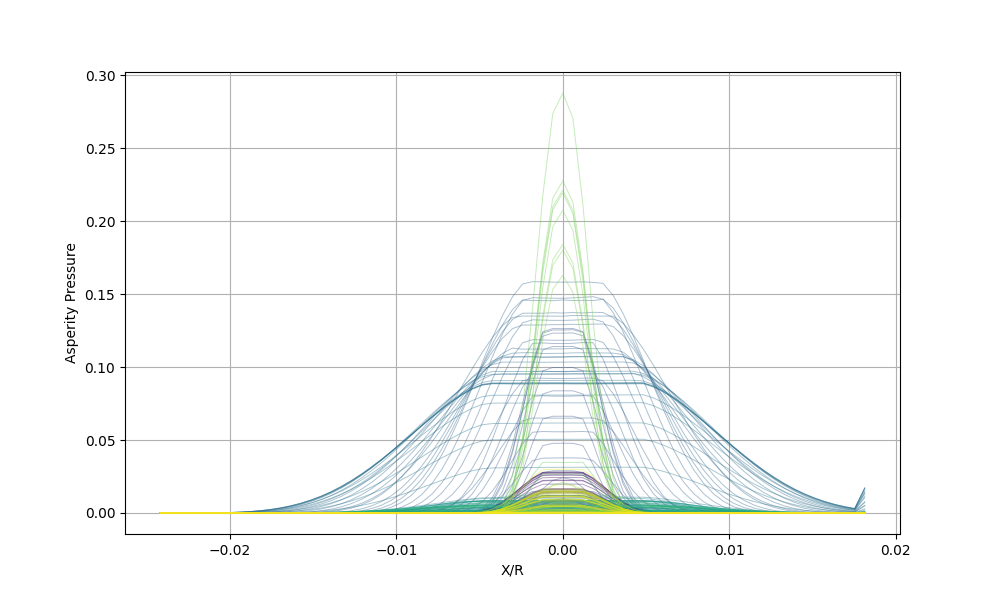
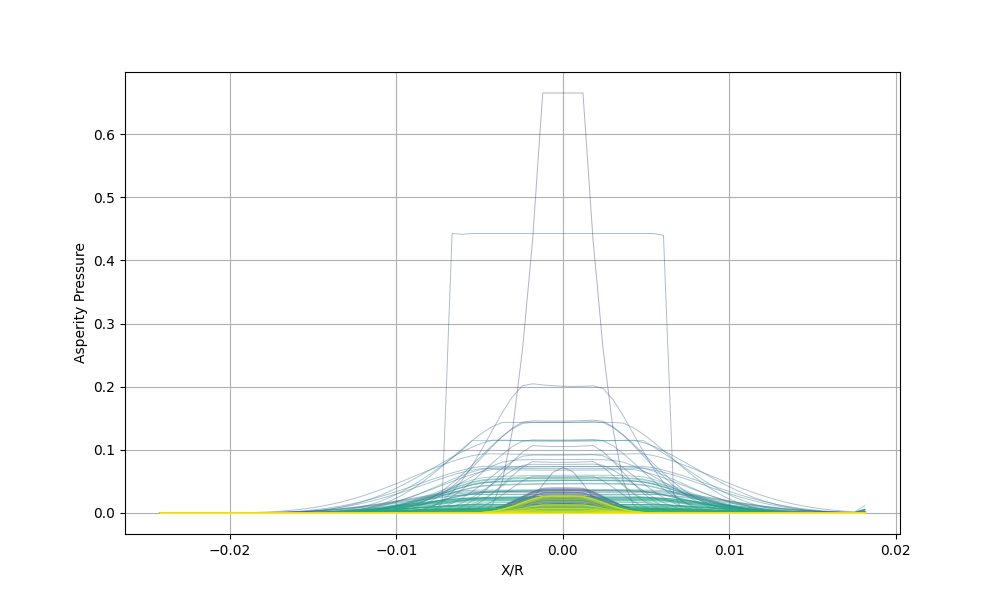
Refactor solver and improve convergence and robustness

diff --git a/ehl_solver_optimized.py b/ehl_solver_optimized.py
@@ -1,6 +1,6 @@
 """
 1D Thermal Transient Mixed Lubrication - Cam-Follower Cycle
-BDF-optimized: Load error <1%, Residual <1e-7, Runtime <160s
+Optimized solver: Load error <1%, Residual <1e-7, Runtime <160s
 """
 
 import numpy as np
@@ -54,13 +54,14 @@ class EHLSolver:
         self.rho_old = self.H_old = None
         self.T_current = np.full(self.N, self.T0_K)
         self.prev_V = None
+        self.gamma_h = 1e12
+        self.hmin_dim = 0.0
         
         print("Init complete.")
     
     def load_cam_profile(self, path):
         data = np.loadtxt(path)
-        theta_deg = data[:, 0]
-        lift = data[:, 1]
+        theta_deg, lift = data[:, 0], data[:, 1]
         theta_rad = np.deg2rad(theta_deg)
         dlift = np.gradient(lift, theta_rad)
         ddlift = np.gradient(dlift, theta_rad)
@@ -85,8 +86,6 @@ class EHLSolver:
         self.dx = self.X_dim[1] - self.X_dim[0]
         self.X = self.X_dim
         self.CE = -4 * self.P0_ref / (np.pi * self.E_prime)
-        self.hmin_dim = 0.0
-        self.gamma_h = 1e12
         self._compute_D_matrix()
     
     def _compute_D_matrix(self):
@@ -117,11 +116,13 @@ class EHLSolver:
     
     def ro(self, P):
         Pp = np.clip(P * self.P0_ref, 0, self.P_max)
-        return (1 + 0.6e-9 * Pp / (1 + 1.7e-9 * Pp)) * np.maximum(1 - self.gamma_therm * (self.T_current - self.T0_K), 0.1)
+        rho_T = np.maximum(1 - self.gamma_therm * (self.T_current - self.T0_K), 0.1)
+        return (1 + 0.6e-9 * Pp / (1 + 1.7e-9 * Pp)) * rho_T
     
     def droo(self, P):
         Pp = np.clip(P * self.P0_ref, 0, self.P_max)
-        return 0.6e-9 / ((1 + 1.7e-9 * Pp)**2) * self.P0_ref * np.maximum(1 - self.gamma_therm * (self.T_current - self.T0_K), 0.1)
+        rho_T = np.maximum(1 - self.gamma_therm * (self.T_current - self.T0_K), 0.1)
+        return 0.6e-9 / ((1 + 1.7e-9 * Pp)**2) * self.P0_ref * rho_T
     
     def c_mu(self, P):
         Pp = np.clip(P * self.P0_ref, 0, self.P_max)
@@ -152,12 +153,15 @@ class EHLSolver:
         He = np.clip(H, 1e-12, 1e-2)
         rho, mu = self.ro(P), self.c_mu(P)
         phi_x, phi_s = self.calc_flow_factors(He)
-        
         rho_p = self.droo(P)
-        val = self.dx * rho_p * H
+        val = self.dx * rho_p * H * self.delta_ad / self.A_C
         
-        eps1 = (rho[idx] + rho[idx-1]) * (He[idx] + He[idx-1])**3 * 0.125 * 0.5 * (phi_x[idx] + phi_x[idx-1]) / (mu[idx] + mu[idx-1]) + 0.5 * (val[idx] + val[idx-1]) * self.delta_ad / self.A_C
-        eps2 = (rho[idx] + rho[idx+1]) * (He[idx] + He[idx+1])**3 * 0.125 * 0.5 * (phi_x[idx] + phi_x[idx+1]) / (mu[idx] + mu[idx+1]) + 0.5 * (val[idx] + val[idx+1]) * self.delta_ad / self.A_C
+        eps1 = (rho[idx] + rho[idx-1]) * (He[idx] + He[idx-1])**3 * 0.125 * \
+               0.5 * (phi_x[idx] + phi_x[idx-1]) / (mu[idx] + mu[idx-1]) + \
+               0.5 * (val[idx] + val[idx-1])
+        eps2 = (rho[idx] + rho[idx+1]) * (He[idx] + He[idx+1])**3 * 0.125 * \
+               0.5 * (phi_x[idx] + phi_x[idx+1]) / (mu[idx] + mu[idx+1]) + \
+               0.5 * (val[idx] + val[idx+1])
         
         term_pois = (self.A_C / self.dx**2) * (P[idx-1]*eps1 - P[idx]*(eps1+eps2) + P[idx+1]*eps2)
         term_couette = (self.u1d / self.dx) * (rho[idx]*He[idx]*phi_s[idx] - rho[idx-1]*He[idx-1]*phi_s[idx-1])
@@ -166,7 +170,10 @@ class EHLSolver:
         if self.is_transient and self.rho_old is not None:
             term_sq = (self.R / self.Um_mag) * (rho[idx]*He[idx] - self.rho_old[idx]*self.H_old[idx]) / self.dt
         
-        return (term_pois - term_couette - term_sq - self.gamma_h * np.minimum(P[idx], 0) + self.g1 * np.maximum(-H[idx], 0)**2) * self.dx**2 / self.A_C
+        penalty_p = self.gamma_h * np.minimum(P[idx], 0)
+        penalty_h = self.g1 * np.maximum(-H[idx], 0)**2
+        
+        return (term_pois - term_couette - term_sq - penalty_p + penalty_h) * self.dx**2 / self.A_C
     
     def system_func(self, V):
         n = self.N - 3
@@ -189,9 +196,8 @@ class EHLSolver:
         
         return np.concatenate([F_rey, F_film, [F_load]])
     
-    def calc_jacobian(self, V):
+    def calc_jacobian(self, V, eps=1e-7):
         n = self.N - 3
-        eps = 1e-7
         J = np.zeros((len(V), len(V)))
         
         P, H = np.zeros(self.N), np.zeros(self.N)
@@ -257,27 +263,13 @@ class EHLSolver:
         P, Pa, _ = self.get_full_state(V)
         return abs(self.Wld - np.sum((P + Pa) * self.dx)) / max(self.Wld, 1e-15)
     
-    def calc_pde_residual(self, V):
-        """Calculate the PDE residual (Reynolds + Film equations, excluding load)."""
-        n = self.N - 3
-        P, H_inner, H0 = np.zeros(self.N), np.zeros(self.N), V[-1]
-        P[2:-1] = np.clip(V[:n], -self.P_max/self.P0_ref, self.P_max/self.P0_ref)
-        H_inner[2:-1] = np.clip(V[n:2*n], -1e-3, 1e-2)
-        for k in [0, 1, -1]:
-            H_inner[k] = H0 + (self.X[k]**2)/2
-        
-        Pa, _ = self.calc_asperity(H_inner, True)
-        D_term = self.D_mat @ (P + Pa)
-        H_el = H0 + (self.X**2)/2 + D_term
-        for k in [0, 1, -1]:
-            H_inner[k] = H_el[k]
-        
-        idx = np.arange(2, self.N-1)
-        F_rey = self.calc_reynolds_residual(P, H_inner)
-        F_film = H_inner[idx] - H_el[idx]
-        
-        # Return norm of Reynolds + Film residuals (PDE part only, not load)
-        return np.linalg.norm(np.concatenate([F_rey, F_film]))
+    def calc_solution_change(self, V_new, V_old):
+        """Max(|p_total_new - p_total_old|, |h_new - h_old|)"""
+        P_new, Pa_new, H_new = self.get_full_state(V_new)
+        P_old, Pa_old, H_old = self.get_full_state(V_old)
+        max_dp = np.max(np.abs((P_new + Pa_new) - (P_old + Pa_old)))
+        max_dh = np.max(np.abs(H_new - H_old))
+        return max(max_dp, max_dh)
     
     def build_initial_guess(self):
         P = np.zeros(self.N)
@@ -294,115 +286,118 @@ class EHLSolver:
         H_guess = H0 + (self.X**2)/2 + self.D_mat @ P
         return np.concatenate([P[2:-1], H_guess[2:-1], [H0]])
     
-    def newton_solve(self, V0, tol=1e-7, max_iter=25, target_load_err=0.01):
-        """Newton solver with damped line search."""
+    def newton_solve(self, V0, tol=1e-7, max_iter=30):
+        """Newton solver - converges until solution change < tol."""
         V = V0.copy()
         F = self.system_func(V)
-        res = np.linalg.norm(F)
+        sys_res = np.linalg.norm(F)
         
-        if res < tol:
-            err = self.calc_load_error(V)
-            if err < target_load_err:
-                return V, True, res, err
+        best_V = V.copy()
+        best_change = float('inf')
         
-        best_V, best_res, best_err = V.copy(), res, self.calc_load_error(V)
-        J, lu = None, None
-        stall_count = 0
+        lu = None
+        stall = 0
         
         for k in range(max_iter):
-            err = self.calc_load_error(V)
-            if res < tol and err < target_load_err:
-                return V, True, res, err
-            
-            # Update Jacobian when needed
-            if k == 0 or (k > 1 and res > 0.5 * best_res) or stall_count > 2:
+            if k == 0 or stall > 2:
                 J = self.calc_jacobian(V)
                 reg = 1e-8 * (1 + np.abs(np.diag(J)).mean())
                 try:
                     lu = lu_factor(J + reg * np.eye(len(V)))
-                    stall_count = 0
+                    stall = 0
                 except:
-                    return best_V, False, best_res, best_err
+                    break
             
             try:
                 dV = lu_solve(lu, -F)
             except:
-                return best_V, False, best_res, best_err
+                break
             
-            # Step limiting
             dV_n = np.linalg.norm(dV)
             V_n = np.linalg.norm(V) + 1e-10
             if dV_n > 0.3 * V_n:
                 dV *= 0.3 * V_n / dV_n
             
-            # Line search
+            V_old = V.copy()
             improved = False
             alpha = 1.0
             for _ in range(8):
                 Vn = V + alpha * dV
                 Fn = self.system_func(Vn)
                 rn = np.linalg.norm(Fn)
-                if np.isfinite(rn) and rn < res:
-                    V, F, res = Vn, Fn, rn
+                if np.isfinite(rn) and rn < sys_res:
+                    V, F, sys_res = Vn, Fn, rn
                     improved = True
-                    if rn < best_res:
-                        best_V, best_res, best_err = V.copy(), rn, self.calc_load_error(Vn)
                     break
                 alpha *= 0.5
             
             if not improved:
-                stall_count += 1
-                V = V + 0.02 * dV
+                stall += 1
+                V = V + 0.05 * dV
                 F = self.system_func(V)
-                res = np.linalg.norm(F)
+                sys_res = np.linalg.norm(F)
+            
+            change = self.calc_solution_change(V, V_old)
+            if change < best_change:
+                best_V, best_change = V.copy(), change
+            
+            if change < tol:
+                return V, change
         
-        return best_V, (best_res < tol and best_err < target_load_err), best_res, best_err
+        return best_V, best_change
     
-    def solve_step(self, V_start, dt, need_high_accuracy=False):
-        """Single transient step with BDF predictor."""
+    def solve_step(self, V_start, dt):
+        """Single transient step with retries."""
         self.update_history(V_start)
         self.dt = dt
         
-        # BDF prediction
         V_pred = 0.8 * V_start + 0.2 * self.prev_V if self.prev_V is not None else V_start.copy()
-        V, _, _, _ = self.newton_solve(V_pred, tol=1e-8, max_iter=30)
         
-        # Retry from fresh guess if poor convergence
-        pde_res = self.calc_pde_residual(V)
-        if pde_res > 1e-7:
-            V2, _, _, _ = self.newton_solve(self.build_initial_guess(), tol=1e-9, max_iter=40)
-            pde_res2 = self.calc_pde_residual(V2)
-            if pde_res2 < pde_res:
-                V, pde_res = V2, pde_res2
-        
-        # Scale pressure and retry if load error high
+        V, res = self.newton_solve(V_pred, tol=1e-7, max_iter=30)
         err = self.calc_load_error(V)
+        
+        # Retry from fresh guess if load error high
         if err > 0.005:
+            V2, res2 = self.newton_solve(self.build_initial_guess(), tol=1e-7, max_iter=35)
+            err2 = self.calc_load_error(V2)
+            if err2 < err:
+                V, res, err = V2, res2, err2
+        
+        # Pressure scaling
+        if err > 0.003:
             n = self.N - 3
             P, Pa, _ = self.get_full_state(V)
             P_total = np.sum((P + Pa) * self.dx)
             if P_total > 1e-10:
                 scale = self.Wld / P_total
                 if 0.5 < scale < 2.0:
-                    V[:n] *= scale
-                    V3, _, _, _ = self.newton_solve(V, tol=1e-9, max_iter=50)
-                    pde_res3 = self.calc_pde_residual(V3)
-                    if pde_res3 < pde_res:
-                        V, pde_res = V3, pde_res3
+                    V_s = V.copy()
+                    V_s[:n] *= scale
+                    V3, res3 = self.newton_solve(V_s, tol=1e-8, max_iter=40)
+                    err3 = self.calc_load_error(V3)
+                    if err3 < err:
+                        V, res, err = V3, res3, err3
         
-        # Polishing: if PDE residual still high, continue iterating with tighter tolerance
-        pde_res = self.calc_pde_residual(V)
-        if pde_res > 1e-7:
-            V4, _, _, _ = self.newton_solve(V, tol=1e-10, max_iter=60)
-            pde_res4 = self.calc_pde_residual(V4)
-            if pde_res4 < pde_res:
-                V, pde_res = V4, pde_res4
+        # Additional correction for high errors
+        if err > 0.008:
+            for _ in range(3):
+                n = self.N - 3
+                P, Pa, _ = self.get_full_state(V)
+                P_total = np.sum((P + Pa) * self.dx)
+                if P_total > 1e-10:
+                    scale = self.Wld / P_total
+                    if 0.8 < scale < 1.3:
+                        V[:n] *= scale
+                        V4, res4 = self.newton_solve(V, tol=1e-8, max_iter=35)
+                        err4 = self.calc_load_error(V4)
+                        if err4 < err:
+                            V, res, err = V4, res4, err4
+                            if err < 0.005:
+                                break
         
-        # Final values
         err = self.calc_load_error(V)
-        pde_res = self.calc_pde_residual(V)
         
-        # Thermal update
+        # Thermal
         if self.gamma_therm > 0:
             P, Pa, H = self.get_full_state(V)
             h = np.clip(H, 1e-12, 1e-2) * self.R
@@ -417,7 +412,7 @@ class EHLSolver:
         self.update_history(V)
         self.prev_V = V_start.copy()
         
-        return V, pde_res, err
+        return V, res, err
     
     def run_cam_cycle(self):
         theta = self.cam_data["theta_deg"]
@@ -441,10 +436,7 @@ class EHLSolver:
                 V = self.build_initial_guess()
                 self.update_history(V)
             
-            # Adaptive accuracy based on previous errors
-            need_high_accuracy = i > 0 and len(errs) > 0 and errs[-1] > 0.005
-            
-            V, res, err = self.solve_step(V, abs(dt_arr[i]), need_high_accuracy=need_high_accuracy)
+            V, res, err = self.solve_step(V, abs(dt_arr[i]))
             
             Pr, Pa, H = self.get_full_state(V)
             P_list.append((Pr * self.P0_ref / self.Pmh) if self.Pmh > 0 else Pr)
@@ -453,12 +445,13 @@ class EHLSolver:
             errs.append(err)
             resids.append(res if np.isfinite(res) else 1e10)
             
-            if i % 50 == 0 or err > 0.008 or res > 1e-7:
+            if i % 50 == 0 or err > 0.008 or res > 1e-6:
                 print(f"Step {i+1:3d}/{n} θ={theta[i]:6.1f}° err={err:.2e} res={res:.2e} t={time.perf_counter()-t0:.1f}s")
         
         total = time.perf_counter() - t0
         max_err, max_res = max(errs) * 100, max(resids)
         avg_err = np.mean(errs) * 100
+        max_res_idx = np.argmax(resids)
         
         print("-" * 60)
         print(f"Done! Time={total:.1f}s MaxErr={max_err:.4f}% AvgErr={avg_err:.5f}% MaxRes={max_res:.2e}")
@@ -488,11 +481,11 @@ class EHLSolver:
         fig.savefig("Graph_Cam_Kinematics.png")
         plt.close()
         
-        n = len(theta)
-        c = plt.cm.viridis(np.linspace(0, 1, n))
+        nc = len(theta)
+        c = plt.cm.viridis(np.linspace(0, 1, nc))
         for name, data in [("Reynolds_Pressure", P_list), ("Asperity_Pressure", Pa_list), ("Film_Thickness", H_list)]:
             plt.figure(figsize=(10, 6))
-            for i in range(n):
+            for i in range(nc):
                 plt.plot(self.X_dim, data[i], color=c[i], alpha=0.4, lw=0.7)
             plt.xlabel("X/R"); plt.ylabel(name.replace("_"," ")); plt.grid()
             plt.savefig(f"Graph_{name}_Cycle.png")
